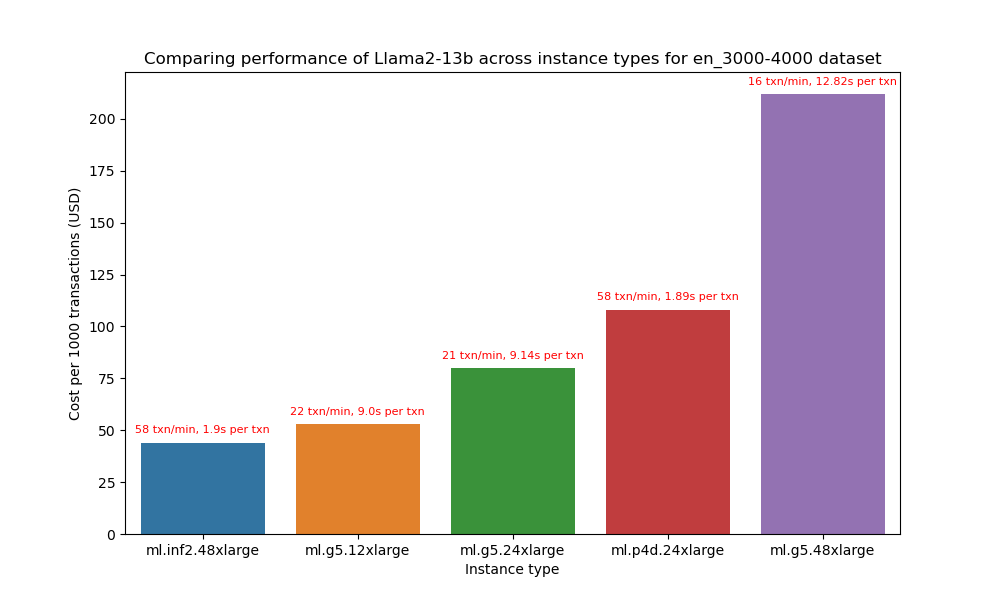
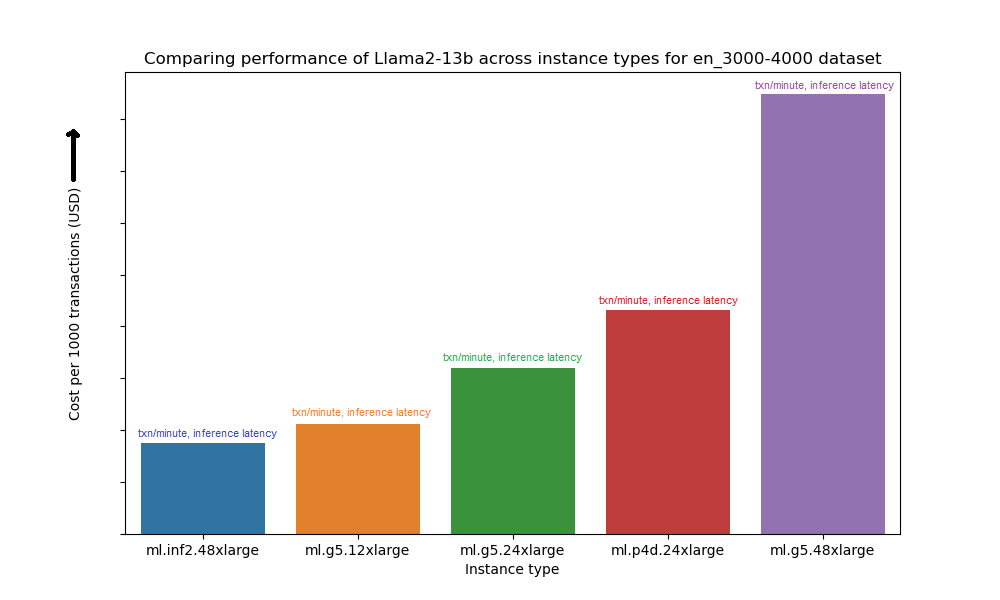
readme and plot updates

diff --git a/README.md b/README.md
@@ -8,7 +8,7 @@ But to really answer this question, we need to answer an **engineering question*
 
 *W: = {R transactions per-minute, average prompt token length P, average generation token length G}*
 
-This foundation model benchmarking tool (a.k.a. `FMBT`) is a tool to answer the above engineering question and thus answer the original business question about how to get the best price performance for a given workload. Here is one of the lots generated by `FMBT` to help answer the above question (__the numbers in the plot may not represent actual values and are here just illustration purposes__).
+This foundation model benchmarking tool (a.k.a. `FMBT`) is a tool to answer the above engineering question and thus answer the original business question about how to get the best price performance for a given workload. Here is one of the plots generated by `FMBT` to help answer the above question (_the numbers on the y-axis, transactions per minute and latency have been removed from the image below, you can find them in the actual plot generated on running `FMBT`_).
 
 ![business question](./img/business_summary.png)
 
